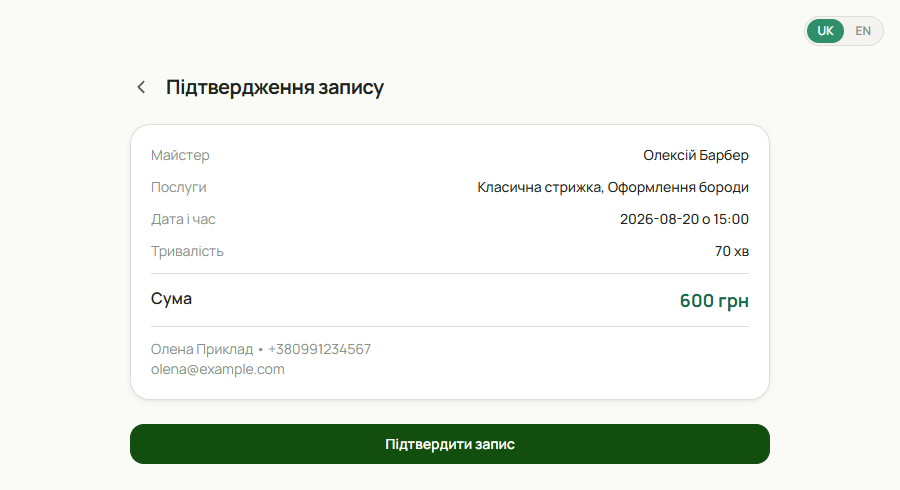
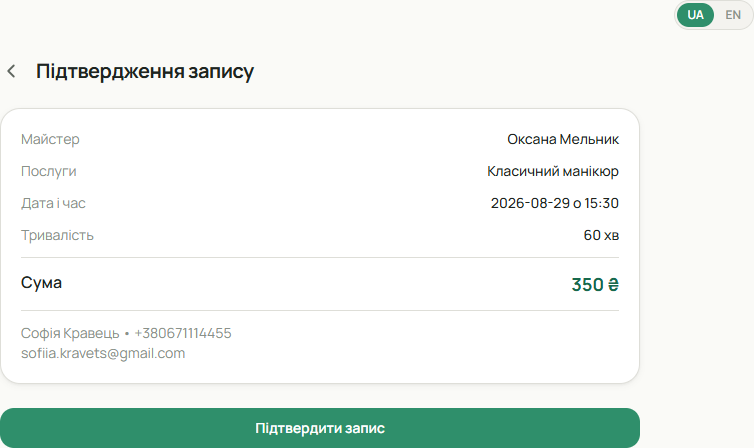
Pivot copy to beauty-salon niche, simplify demo form, add city to leads
Reword hero/pain/solution/services copy from generic "service business"
to beauty salons and independent stylists, refresh product screenshots,
drop the business-type field from the demo form, and add a city column
plus optional email on the leads table.

diff --git a/config/i18n/saas-uk.ts b/config/i18n/saas-uk.ts
@@ -8,31 +8,31 @@ const saasUk: SaasSiteT = {
       { label: 'Демо', href: '#demo' },
       { label: 'Контакт', href: '#cta' },
     ],
-    cta: 'Спробувати демо',
+    cta: 'Отримати демо-доступ',
   },
 
-  marqueeTop: ['Сфера послуг', '*ital*Локальний бізнес', 'Онлайн-запис 24/7'],
+  marqueeTop: ['Салони краси', '*ital*Приватні майстри', 'Онлайн-запис 24/7'],
 
   hero: {
     meta: {
       location: 'hirnix · CRM · 2026',
-      audience: '↘ Для сфери послуг',
-      services: 'Запис клієнтів · Керування бізнесом',
+      audience: '↘ Для салонів краси і майстрів',
+      services: 'Запис клієнтів · Керування салоном',
     },
     h1: {
-      pre: 'Онлайн-запис і ',
-      italic: 'адміністрування',
-      mid: ' для',
-      highlight: 'сфери послуг',
-      after: '',
-      accent: 'Без дзвінків і плутанини.',
+      pre: 'Онлайн-запис',
+      italic: '',
+      mid: '',
+      highlight: 'для вашого салону',
+      after: '—',
+      accent: 'без дзвінків і хаосу в директі.',
     },
-    lead: 'hirnix — CRM для запису в сфері послуг. Клієнт записується сам за 30 секунд, а ви бачите всі записи, клієнтів і виручку на одному екрані.',
-    cta1: 'Спробувати демо',
-    fineprint: ['Онлайн-запис 24/7', 'Один екран для всієї команди', 'Без встановлення й навчання'],
+    lead: "hirnix — це CRM запису для б'юті-бізнесу. Клієнти записуються самі за 30 секунд, а ви бачите всі записи, клієнтів і виручку на одному екрані.",
+    cta1: 'Отримати демо-доступ',
+    fineprint: ['Безкоштовно на час бети', 'Перші салони вже тестують', 'Відповідаємо за кілька годин'],
     mockup: {
       notifTitle: 'Новий запис',
-      notifMsg: 'Ольга — запис сьогодні о 14:00',
+      notifMsg: 'Софія — запис сьогодні о 15:30',
       notifTime: 'щойно',
       urlLabel: 'app.hirnix.studio',
       statsTitle: 'Сьогодні',
@@ -44,30 +44,30 @@ const saasUk: SaasSiteT = {
 
   pain: {
     eyebrow: 'Знайома ситуація?',
-    h2: { pre: 'Запис вручну краде', accent: 'ваш час.' },
-    lead: 'Дзвінки, записник і месенджери не встигають за потоком клієнтів — і бізнес, і гість втрачають хвилини на кожному записі.',
+    h2: { pre: 'Запис у директі краде', accent: 'ваш час.' },
+    lead: 'Директ, дзвінки й записник не встигають за потоком клієнток — і майстер, і клієнтка втрачають хвилини на кожному записі.',
     items: [
-      { title: 'Дзвінки без кінця', body: 'Записи приймають телефоном у робочі години — і пропускають частину викликів.' },
-      { title: 'Паперовий записник', body: 'Розклад живе в зошиті або чаті: його легко загубити чи переплутати.' },
-      { title: 'Подвійні бронювання', body: 'Два клієнти на один час і плутанина з майстрами та слотами.' },
-      { title: 'Забуті візити', body: 'Клієнти забувають про запис — порожні слоти й втрачений дохід.' },
+      { title: 'Запис у директі', body: 'Клієнтки пишуть у будь-який час доби, а відповісти одразу встигаєте не завжди — заявки губляться.' },
+      { title: 'Паперовий записник', body: 'Розклад живе в зошиті або чаті: його легко переплутати чи загубити.' },
+      { title: 'Накладки в записі', body: 'Дві клієнтки на один час — плутанина з майстрами і кріслами.' },
+      { title: 'Забуті візити', body: 'Клієнтки забувають про запис — порожні вікна в розкладі й втрачений дохід.' },
     ],
-    cta: 'Так, це про мій бізнес',
+    cta: 'Так, це про мій салон',
   },
 
   solution: {
     eyebrow: 'Рішення',
     h2: { pre: 'hirnix бере запис', accent: 'на себе.' },
-    lead: 'Одна система з двома сторонами: сайт онлайн-запису для клієнта і панель керування для бізнесу.',
-    cta: 'Спробувати демо',
+    lead: 'Одна система з двома сторонами: сторінка онлайн-запису для клієнтки і панель керування для салону.',
+    cta: 'Отримати демо-доступ',
     client: {
-      tag: 'ДЛЯ КЛІЄНТА',
+      tag: 'ДЛЯ КЛІЄНТКИ',
       title: 'Онлайн-запис 24/7',
-      desc: 'Гість сам обирає послугу, майстра й вільний час — за 30 секунд, без дзвінків.',
+      desc: 'Клієнтка сама обирає послугу, майстра й вільний час — за 30 секунд, без дзвінків і переписки в директі.',
       items: ['Запис у будь-який час доби', 'Вибір майстра та послуги', 'Підтвердження одразу після запису'],
     },
     business: {
-      tag: 'ДЛЯ БІЗНЕСУ',
+      tag: 'ДЛЯ САЛОНУ',
       title: 'Панель адміністрування',
       desc: 'Записи, клієнти, майстри, послуги та звіти — усе на одному екрані.',
       items: ['Календар записів по майстрах', 'База клієнтів з історією візитів', 'Звіти по виручці та послугах'],
@@ -76,8 +76,8 @@ const saasUk: SaasSiteT = {
 
   process: {
     eyebrow: 'Як це працює',
-    h2: { pre: '5 кроків', mid: 'до', accent: 'запису.' },
-    lead: 'Клієнтський онлайн-запис веде гостя за руку — крок за кроком. Бронювання займає ~30 секунд, без дзвінків і очікування відповіді.',
+    h2: { pre: 'Клієнт записується', mid: 'за', accent: '5 кроків.' },
+    lead: 'Онлайн-запис веде клієнтку за руку — крок за кроком. Бронювання займає ~30 секунд, без дзвінків і очікування відповіді в директі.',
     steps: [
       { num: '01', title: 'Послуга', body: 'Обирає, що зробити.', when: 'Крок 1 з 5' },
       { num: '02', title: 'Майстер', body: 'Обирає спеціаліста.', when: 'Крок 2 з 5' },
@@ -89,17 +89,17 @@ const saasUk: SaasSiteT = {
 
   demo: {
     eyebrow: 'Демо',
-    h2: { pre: 'Ось як це', accent: 'виглядає.' },
-    lead: 'Клієнт бронює за кілька кліків. Бізнес бачить усе на одному екрані.',
+    h2: { pre: 'Ось як це виглядає', accent: 'зсередини.' },
+    lead: 'Клієнтка бронює за кілька кліків. Ви бачите всі записи на одному екрані.',
     client: {
       tag: 'Клієнтський запис',
-      title: 'Вибір дати та вільного часу',
-      caption: 'Наочна сітка вільних слотів і крок за кроком запис — без дзвінків і очікування.',
-      alt: 'Екран вибору дати і часу онлайн-запису hirnix',
+      title: 'Весь запис на одному екрані',
+      caption: 'Майстер, послуга, дата й час — клієнтка бачить усе одразу і підтверджує в одну кнопку.',
+      alt: 'Головний екран онлайн-запису hirnix із обраним майстром, послугою та часом',
     },
     business: {
       tag: 'Панель керування',
-      title: 'Дашборд бізнесу',
+      title: 'Дашборд салону',
       caption: 'Записи, виручка й останні клієнти — одразу видно, що відбувається сьогодні.',
       alt: 'Дашборд адмін-панелі hirnix із записами дня',
     },
@@ -107,52 +107,52 @@ const saasUk: SaasSiteT = {
 
   services: {
     eyebrow: 'Можливості',
-    h2: { pre: 'Все для', mid: '', accent: 'щоденної роботи.' },
-    lead: 'Дашборд, записи, клієнти, співробітники, послуги й звіти — весь бізнес в одному інструменті.',
+    h2: { pre: 'Усе для', mid: 'щоденної роботи', accent: 'салону.' },
+    lead: 'Дашборд, записи, клієнти, співробітники, послуги й звіти — весь салон в одному інструменті.',
     services: [
       {
         num: '01', title: 'Дашборд',
         desc: 'Записи, виручка й клієнти дня одним поглядом.',
         items: ['Метрики дня в реальному часі', 'Останні клієнти списком', 'Швидкий перехід до записів'],
-        cta: 'Спробувати демо',
+        cta: 'Отримати демо-доступ',
       },
       {
         num: '02', title: 'Записи',
         desc: 'Календар по майстрах і слотах у реальному часі.',
         items: ['Записи по кожному майстру', 'Захист від подвійного бронювання', 'Статуси: нові, підтверджені, завершені'],
-        cta: 'Спробувати демо',
+        cta: 'Отримати демо-доступ',
       },
       {
         num: '03', title: 'Клієнти',
         desc: 'Картки, контакти й історія візитів кожного гостя.',
         items: ['Повна історія візитів', 'Контакти та нотатки', "Кількість візитів і останній прихід"],
-        cta: 'Спробувати демо',
+        cta: 'Отримати демо-доступ',
       },
       {
         num: '04', title: 'Співробітники',
         desc: 'Профілі, графік і рейтинг кожного майстра.',
         items: ['Індивідуальний графік роботи', 'Прив’язка послуг до майстра', 'Навантаження по кожному спеціалісту'],
-        cta: 'Спробувати демо',
+        cta: 'Отримати демо-доступ',
       },
       {
         num: '05', title: 'Послуги',
         desc: 'Ціни й тривалість — база для точного запису.',
         items: ['Каталог послуг і цін', 'Точна тривалість для розкладу', 'Групування за категоріями'],
-        cta: 'Спробувати демо',
+        cta: 'Отримати демо-доступ',
       },
       {
         num: '06', title: 'Звіти',
         desc: 'Виручка, топ-послуги й завантаженість майстрів.',
         items: ['Виручка за період', 'Топ послуги та майстри', 'Завантаженість по днях'],
-        cta: 'Спробувати демо',
+        cta: 'Отримати демо-доступ',
       },
     ],
   },
 
   stats: {
     eyebrow: 'Цінність',
-    h2: { pre: 'Швидке', mid: 'адміністрування,', accent: 'менше рутини.' },
-    lead: 'Менше рутини для бізнесу, менше очікування для клієнта.',
+    h2: { pre: 'Менше рутини —', mid: 'більше часу', accent: 'на клієнтів.' },
+    lead: 'Менше рутини для салону, менше очікування для клієнтки.',
     stats: [
       { label: '01 / Доступність', value: '24/7', accent: 'онлайн-запис', desc: 'Клієнти бронюють будь-коли, навіть коли салон зачинено.' },
       { label: '02 / Огляд дня', value: '1', accent: 'екран', desc: 'Дашборд замінює зошит, чати й таблиці.' },
@@ -183,25 +183,25 @@ const saasUk: SaasSiteT = {
 
   beforeAfter: {
     eyebrow: 'Чому hirnix',
-    h2: { pre: 'Від записника', mid: '—', accent: 'до системи.' },
-    lead: 'Раніше — телефон, зошит і плутанина. З hirnix — один календар, підтвердження і звіти.',
+    h2: { pre: 'Від зошита і директу', mid: '—', accent: 'до системи.' },
+    lead: 'Раніше — дзвінки, зошит і сотні повідомлень у директі. З hirnix — один календар, підтвердження і звіти.',
     beforeLabel: 'Раніше',
     afterLabel: 'З hirnix',
     rows: [
-      { before: 'Записи телефоном у робочі години', after: 'Онлайн-запис 24/7 без дзвінків' },
+      { before: 'Запис у директі й дзвінки цілий день', after: 'Онлайн-запис 24/7 без дзвінків' },
       { before: 'Розклад у зошиті або чаті', after: 'Усі записи в одному календарі' },
-      { before: 'Подвійні бронювання й плутанина', after: 'Слоти зайняті — конфліктів немає' },
-      { before: 'Клієнти забувають про візит', after: 'Підтвердження знижує no-show' },
+      { before: 'Накладки в записі й плутанина з майстрами', after: 'Слоти зайняті — конфліктів немає' },
+      { before: 'Клієнтки забувають про візит', after: 'Підтвердження знижує no-show' },
       { before: 'Немає жодної аналітики', after: 'Звіти по виручці й послугах' },
     ],
   },
 
   startProcess: {
     eyebrow: 'Старт',
-    h2: { pre: 'Запуск за', mid: '', accent: '4 кроки.' },
+    h2: { pre: 'Запуск', mid: 'за', accent: '4 кроки.' },
     lead: 'Від реєстрації до першого онлайн-запису — без технічних складнощів.',
     steps: [
-      { num: '01', title: 'Реєстрація', body: 'Створіть акаунт бізнесу за пару хвилин.', when: 'Крок 1 з 4' },
+      { num: '01', title: 'Реєстрація', body: 'Створіть акаунт салону за пару хвилин.', when: 'Крок 1 з 4' },
       { num: '02', title: 'Послуги й майстри', body: 'Додайте перелік послуг, ціни та команду.', when: 'Крок 2 з 4' },
       { num: '03', title: 'Посилання на запис', body: 'Розмістіть його в Instagram, Google чи на сайті.', when: 'Крок 3 з 4' },
       { num: '04', title: 'Приймайте клієнтів', body: "Записи автоматично з'являються в панелі.", when: 'Крок 4 з 4' },
@@ -210,16 +210,13 @@ const saasUk: SaasSiteT = {
 
   demoForm: {
     eyebrow: 'Заявка на демо',
-    heading: 'Розкажіть про свій бізнес.',
+    heading: 'Розкажіть про свій салон.',
     nameLabel: "Ім'я",
     namePlaceholder: 'Ваше ім\'я',
-    bizLabel: 'Тип бізнесу',
-    bizPlaceholder: 'Оберіть напрям…',
-    bizOptions: ['Автосервіс', 'Фотостудія', 'Інше'],
-    emailLabel: 'Email',
-    phoneLabel: 'Телефон',
+    phoneLabel: 'Телефон / Telegram',
     phonePlaceholder: '+380 …',
-    submitLabel: 'Спробувати демо',
+    emailLabel: 'Email',
+    submitLabel: 'Отримати демо-доступ',
     sentTitlePrefix: 'Дякуємо, ',
     sentTitleFallback: 'друже',
     sentMsg: 'Заявку отримано. Напишемо в Telegram або на email протягом кількох годин.',
@@ -230,18 +227,18 @@ const saasUk: SaasSiteT = {
 
   finalCta: {
     eyebrow: 'Спробувати hirnix',
-    h2: { pre: 'Пришвидшіть свій бізнес', italic: 'разом ', accent: 'із hirnix.' },
-    lead: 'Менше часу на запис — більше часу на клієнтів. Розкажіть про свій бізнес — покажемо, як hirnix працюватиме саме для вас.',
+    h2: { pre: 'Спробуйте hirnix', italic: 'у своєму ', accent: 'салоні.' },
+    lead: 'Менше часу на запис — більше часу на клієнтів. Розкажіть про свій салон — покажемо, як hirnix працюватиме саме для вас.',
     cta1: 'Написати в Telegram',
     cta2: 'Надіслати email',
     note1: 'Відповідаємо протягом кількох годин',
-    note2: 'Працюємо з бізнесами у сфері послуг',
+    note2: 'Працюємо з салонами краси та приватними майстрами',
     labels: { email: 'Email', telegram: 'Telegram', schedule: 'Графік' },
     values: { schedule: 'Пн–Пт · 09:00–19:00 CET' },
   },
 
   footer: {
-    brand: 'Онлайн-запис 24/7 і панель адміністрування для сфери послуг.',
+    brand: 'Онлайн-запис 24/7 і CRM для салонів краси та приватних майстрів.',
     servicesHeading: 'Можливості',
     servicesList: ['Дашборд', 'Записи', 'Клієнти', 'Співробітники', 'Послуги', 'Звіти'],
     studioHeading: 'hirnix',

diff --git a/app/globals.css b/app/globals.css
@@ -335,8 +335,8 @@ section { position: relative; }
 .mk-gallery > div:nth-child(1) { background: linear-gradient(135deg, #E5F5EE, #F1FAF5); }
 .mk-gallery > div:nth-child(2) { background: linear-gradient(135deg, #F4F3EF, #DEDED8); }
 .mk-gallery > div:nth-child(3) { background: linear-gradient(135deg, #FAFAF7, #E5F5EE); }
-.mk-gbp { position: absolute; right: -6px; bottom: 10px; width: 168px; z-index: 2; transform: rotate(2deg); }
-@media (min-width: 980px) { .mk-gbp { right: -18px; bottom: 14px; } }
+.mk-gbp { position: absolute; right: -6px; bottom: -34px; width: 168px; z-index: 2; transform: rotate(2deg); }
+@media (min-width: 980px) { .mk-gbp { right: -18px; bottom: -38px; } }
 .mk-gbp-header { display: flex; gap: 8px; margin-bottom: 6px; }
 .mk-gbp-avatar { width: 26px; height: 26px; border-radius: 7px; background: linear-gradient(135deg, var(--brand-primary), var(--brand-dark)); display: flex; align-items: center; justify-content: center; color: #fff; font-weight: 800; font-size: 11px; flex-shrink: 0; }
 .mk-gbp-title { font-size: 11px; font-weight: 700; line-height: 1.2; }
@@ -444,7 +444,7 @@ section { position: relative; }
 .demo-frame { background: var(--surface); border: 1px solid var(--border-light); border-radius: 20px; box-shadow: var(--shadow-md); overflow: hidden; }
 .demo-frame-bar { display: flex; align-items: center; gap: 8px; padding: 12px 16px; border-bottom: 1px solid var(--border-light); background: var(--surface-soft); }
 .demo-frame-bar .dot { width: 10px; height: 10px; border-radius: 50%; background: #C9CBC4; }
-.demo-frame img { display: block; width: 100%; aspect-ratio: 5 / 4; object-fit: cover; object-position: top center; }
+.demo-frame img { display: block; width: 100%; height: auto; }
 .demo-tag { display: inline-flex; align-items: center; gap: 8px; font-family: var(--font-mono); font-size: 11px; letter-spacing: 0.06em; text-transform: uppercase; color: var(--brand-primary); font-weight: 600; }
 .demo-card h3 { font-family: var(--font-sans); font-size: 22px; font-weight: 700; letter-spacing: -0.02em; line-height: 1.2; margin: 4px 0 0; color: var(--text-primary); }
 .demo-card p { font-size: 14px; line-height: 1.55; color: var(--text-secondary); margin: 0; }

diff --git a/config/i18n/saas-en.ts b/config/i18n/saas-en.ts
@@ -32,7 +32,7 @@ const saasEn: SaasSiteT = {
     fineprint: ['24/7 online booking', 'One screen for the whole team', 'No install, no training'],
     mockup: {
       notifTitle: 'New booking',
-      notifMsg: 'Olga — appointment today at 2:00 PM',
+      notifMsg: 'Sofiia — appointment today at 15:30',
       notifTime: 'just now',
       urlLabel: 'app.hirnix.studio',
       statsTitle: 'Today',
@@ -93,9 +93,9 @@ const saasEn: SaasSiteT = {
     lead: 'Clients book in a few clicks. The business sees everything on one screen.',
     client: {
       tag: 'Client booking',
-      title: 'Picking a date and free time slot',
-      caption: 'A clear grid of open slots and a step-by-step flow — no calls, no waiting.',
-      alt: 'hirnix online booking date and time selection screen',
+      title: 'The whole booking on one screen',
+      caption: 'Specialist, service, date and time — the client sees it all at once and confirms in one tap.',
+      alt: 'hirnix online booking home screen with specialist, service, and time selected',
     },
     business: {
       tag: 'Admin dashboard',
@@ -213,12 +213,9 @@ const saasEn: SaasSiteT = {
     heading: 'Tell us about your business.',
     nameLabel: 'Name',
     namePlaceholder: 'Your name',
-    bizLabel: 'Business type',
-    bizPlaceholder: 'Select your type…',
-    bizOptions: ['Auto repair shop', 'Photo studio', 'Other'],
-    emailLabel: 'Email',
-    phoneLabel: 'Phone',
+    phoneLabel: 'Phone / Telegram',
     phonePlaceholder: '+1 …',
+    emailLabel: 'Email',
     submitLabel: 'Try the Demo',
     sentTitlePrefix: 'Thanks, ',
     sentTitleFallback: 'there',

diff --git a/components/DemoLeadForm.tsx b/components/DemoLeadForm.tsx
@@ -75,6 +75,17 @@ export function DemoLeadForm({ t, source }: Props) {
         </div>
 
         <div className="form-row">
+          <label>{t.phoneLabel}</label>
+          <PhoneInput
+            defaultCountry="UA"
+            value={phone}
+            onChange={setPhone}
+            placeholder={t.phonePlaceholder}
+            international
+          />
+        </div>
+
+        <div className="form-row">
           <label htmlFor="lf-email">{t.emailLabel}</label>
           <input
             id="lf-email"
@@ -84,17 +95,6 @@ export function DemoLeadForm({ t, source }: Props) {
             onChange={(e) => setEmail(e.target.value)}
             placeholder="hello@example.com"
             autoComplete="email"
-          />
-        </div>
-
-        <div className="form-row">
-          <label>{t.phoneLabel}</label>
-          <PhoneInput
-            defaultCountry="UA"
-            value={phone}
-            onChange={setPhone}
-            placeholder={t.phonePlaceholder}
-            international
           />
         </div>
 

diff --git a/config/i18n/types.ts b/config/i18n/types.ts
@@ -230,12 +230,9 @@ export interface DemoFormT {
   heading: string;
   nameLabel: string;
   namePlaceholder: string;
-  bizLabel: string;
-  bizPlaceholder: string;
-  bizOptions: string[];
-  emailLabel: string;
   phoneLabel: string;
   phonePlaceholder: string;
+  emailLabel: string;
   submitLabel: string;
   sentTitlePrefix: string;
   sentTitleFallback: string;
